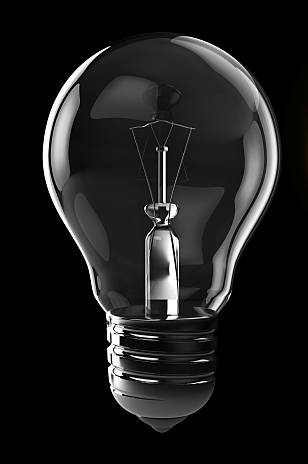
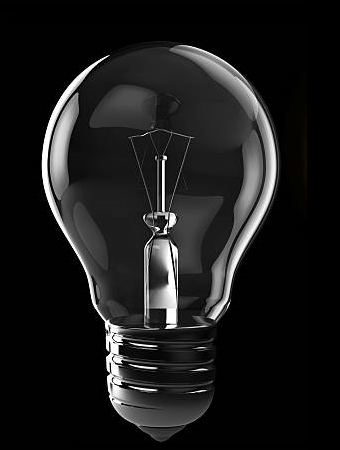
Fixat bildformat

diff --git a/index.html b/index.html
@@ -9,9 +9,9 @@
 </head>
 <body>
 
-<button id="bulb1" class="btn btn-primary">Toggle bulb 1</button>
-<button id="bulb2" class="btn btn-primary">Toggle bulb 2</button>
-<button id="bulb3" class="btn btn-primary">Toggle bulb 3</button>
+<button id="bulb1" class="btn-primary">Toggle bulb 1</button>
+<button id="bulb2" class="btn-primary">Toggle bulb 2</button>
+<button id="bulb3" class="btn-primary">Toggle bulb 3</button>
 
 <div class="row">
     <div class="column">
